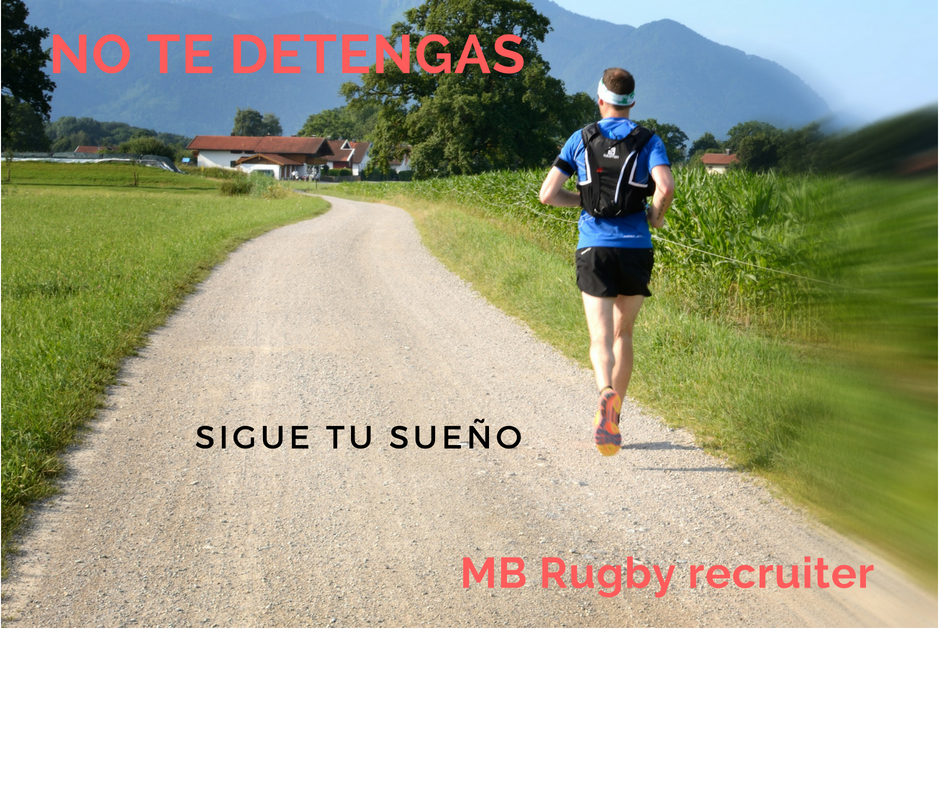
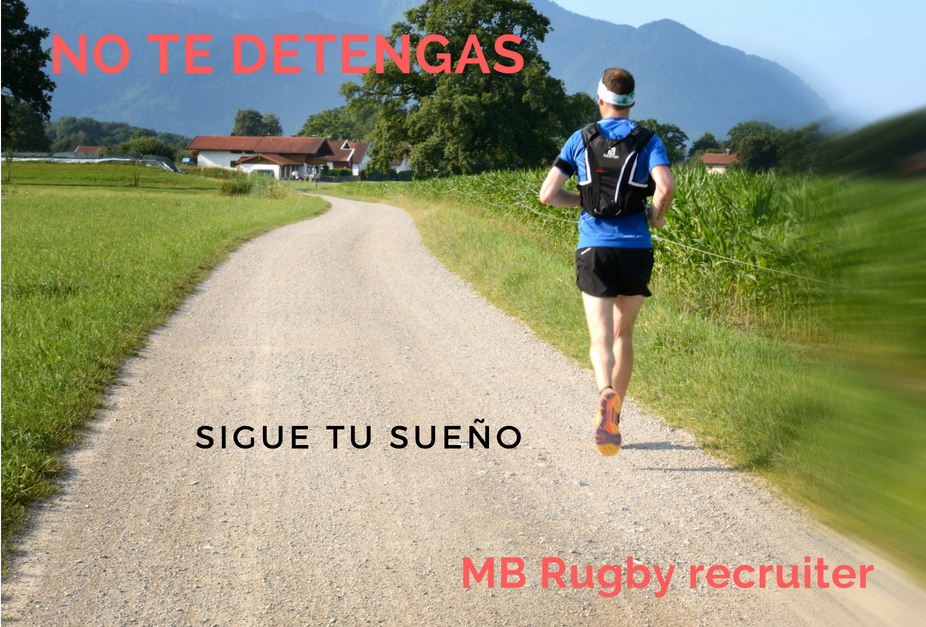
achico background1

diff --git a/index.html b/index.html
@@ -10,7 +10,6 @@
 <!--FB open graph -->
 
 	<meta property="og:url" content="https://jpberardo.github.io/MBrugby/index.html" />
-
 	<meta property="og:title" content="MB rugby | Recruitment of rugby players for european clubs" /> 
 	<meta property="og:image" content="https://jpberardo.github.io/MBrugby/notedetengas.png" /> 
 	<meta property="og:description"    content="Quisieras ser un jugador de rugby profecional? Buscamos jóvenes talentos del rugby argentino que quieran emprender una posible carrera profesional en Europa." />

diff --git a/css/style.css b/css/style.css
@@ -139,8 +139,8 @@ padding-top: 10px;
 }
 
 .img-background1 {
-height: 100px;
-padding-top: 2px;
+height: 80px;
+padding-top: 10px;
 }
 
 .img-cani {
